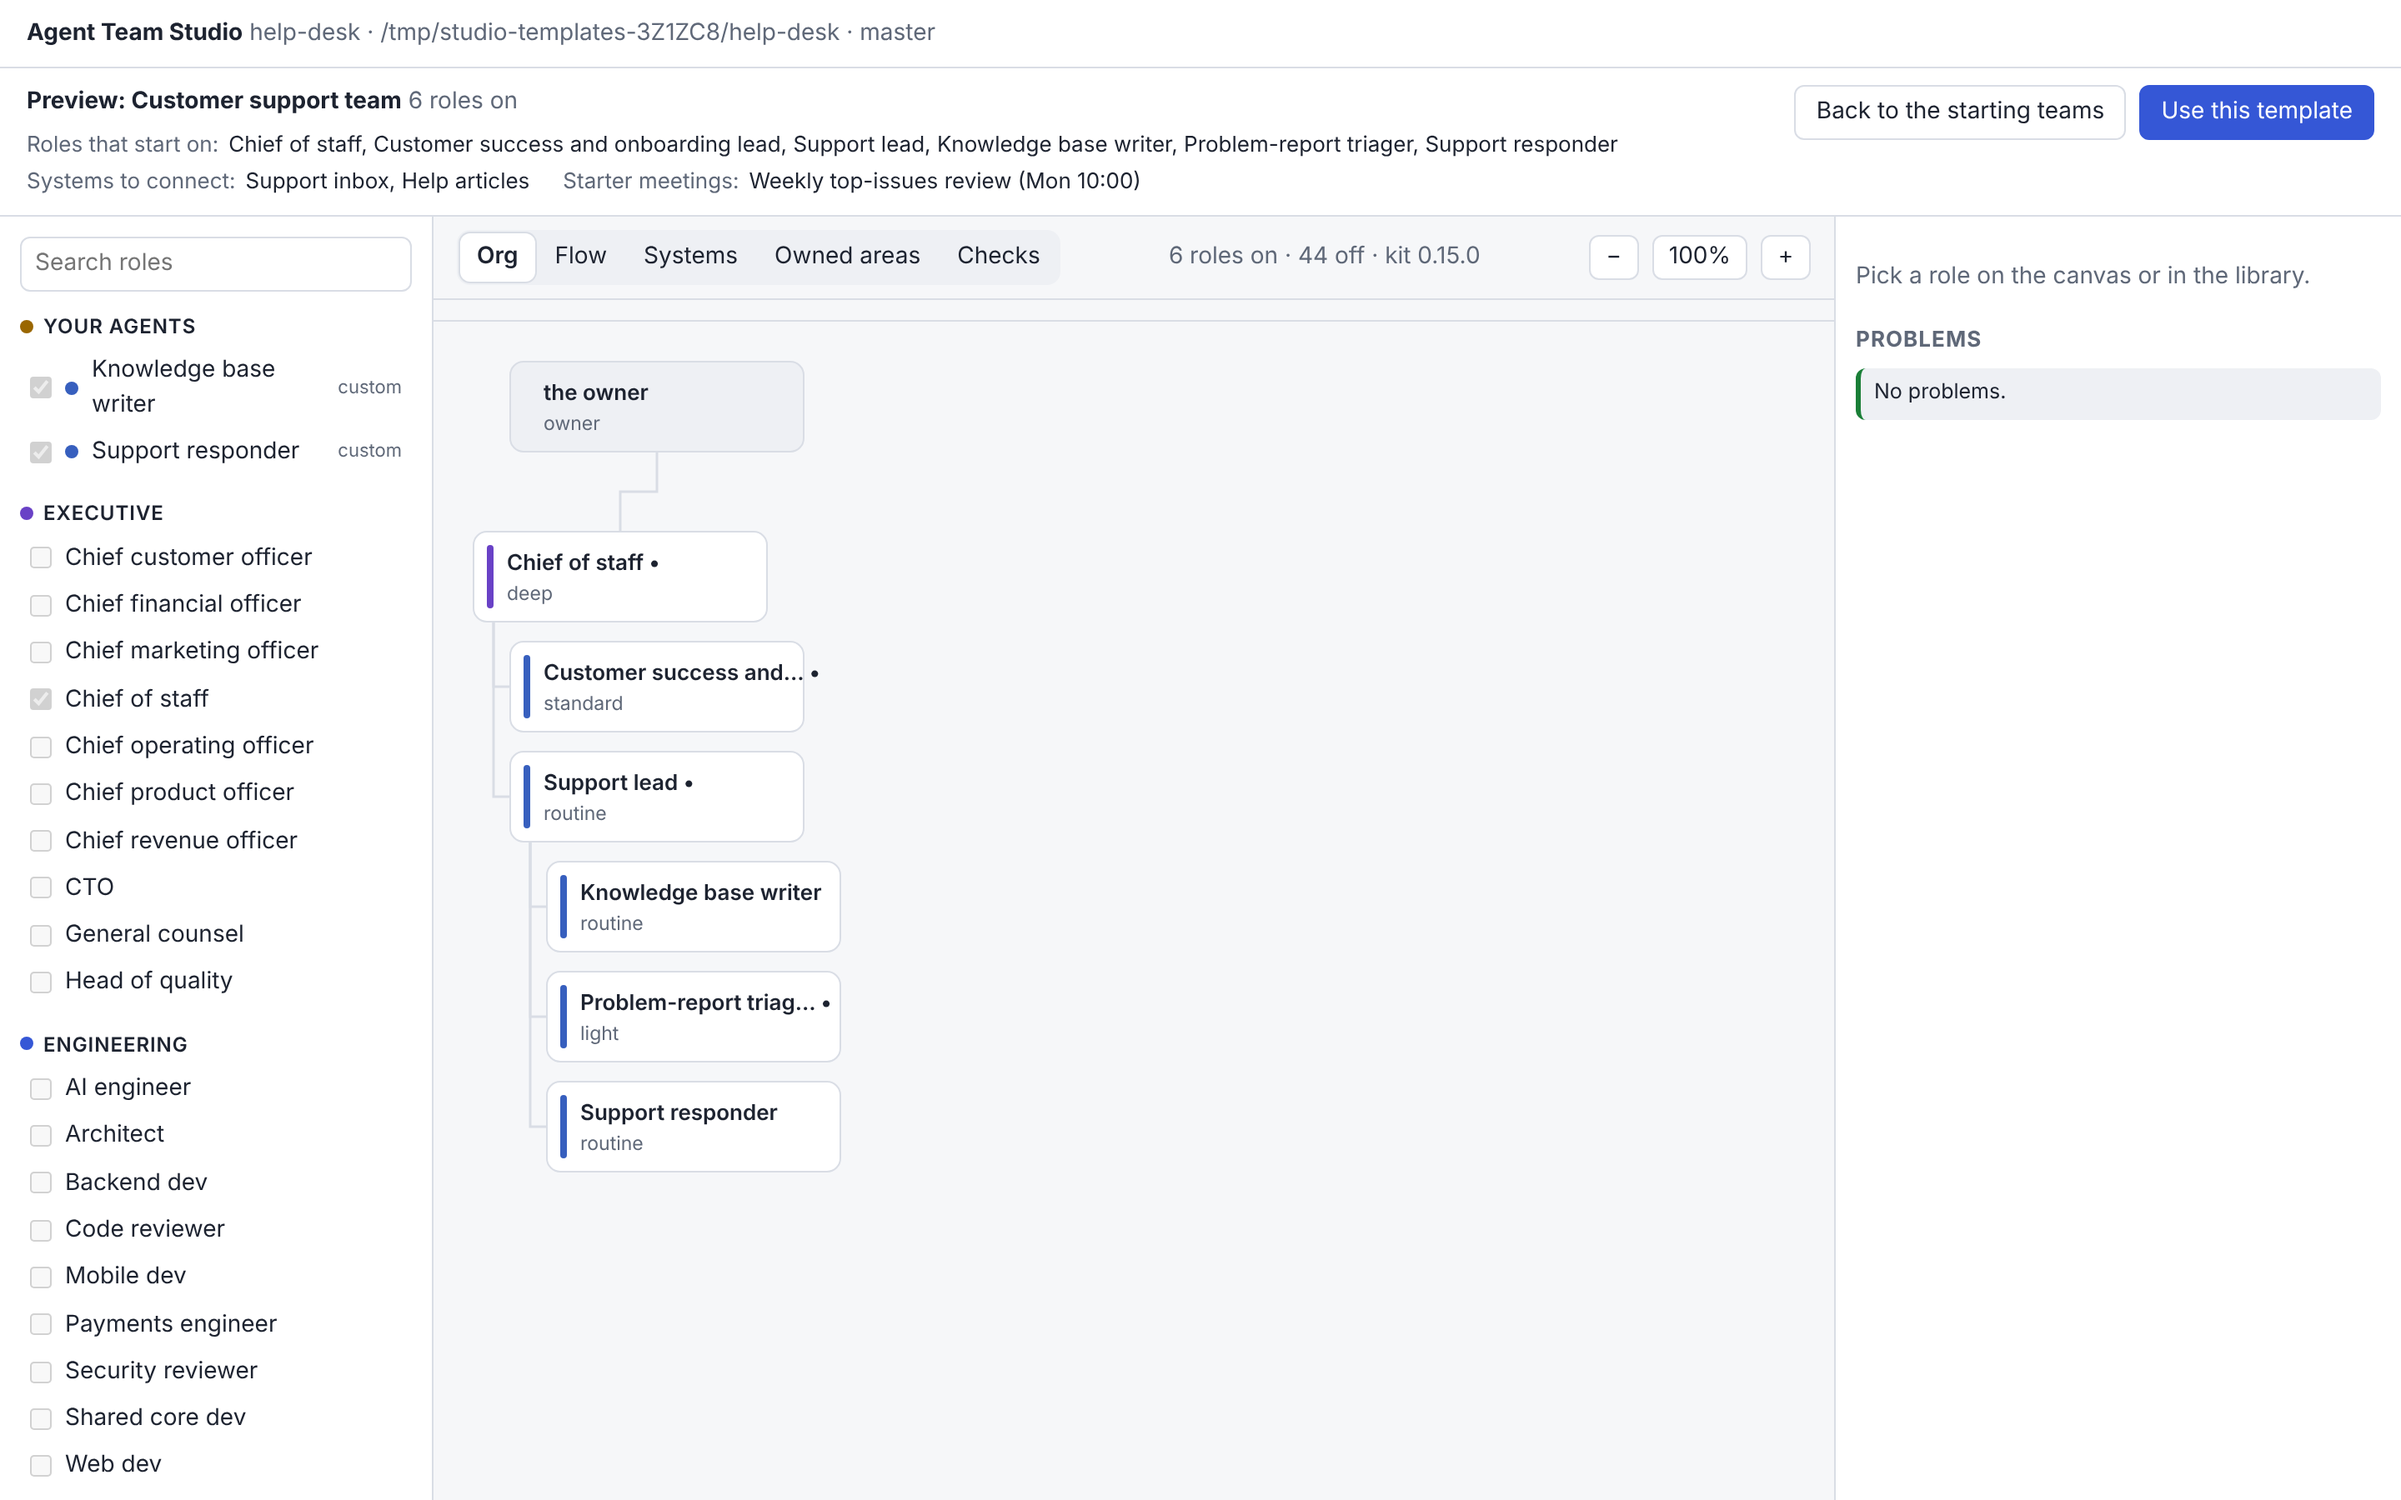
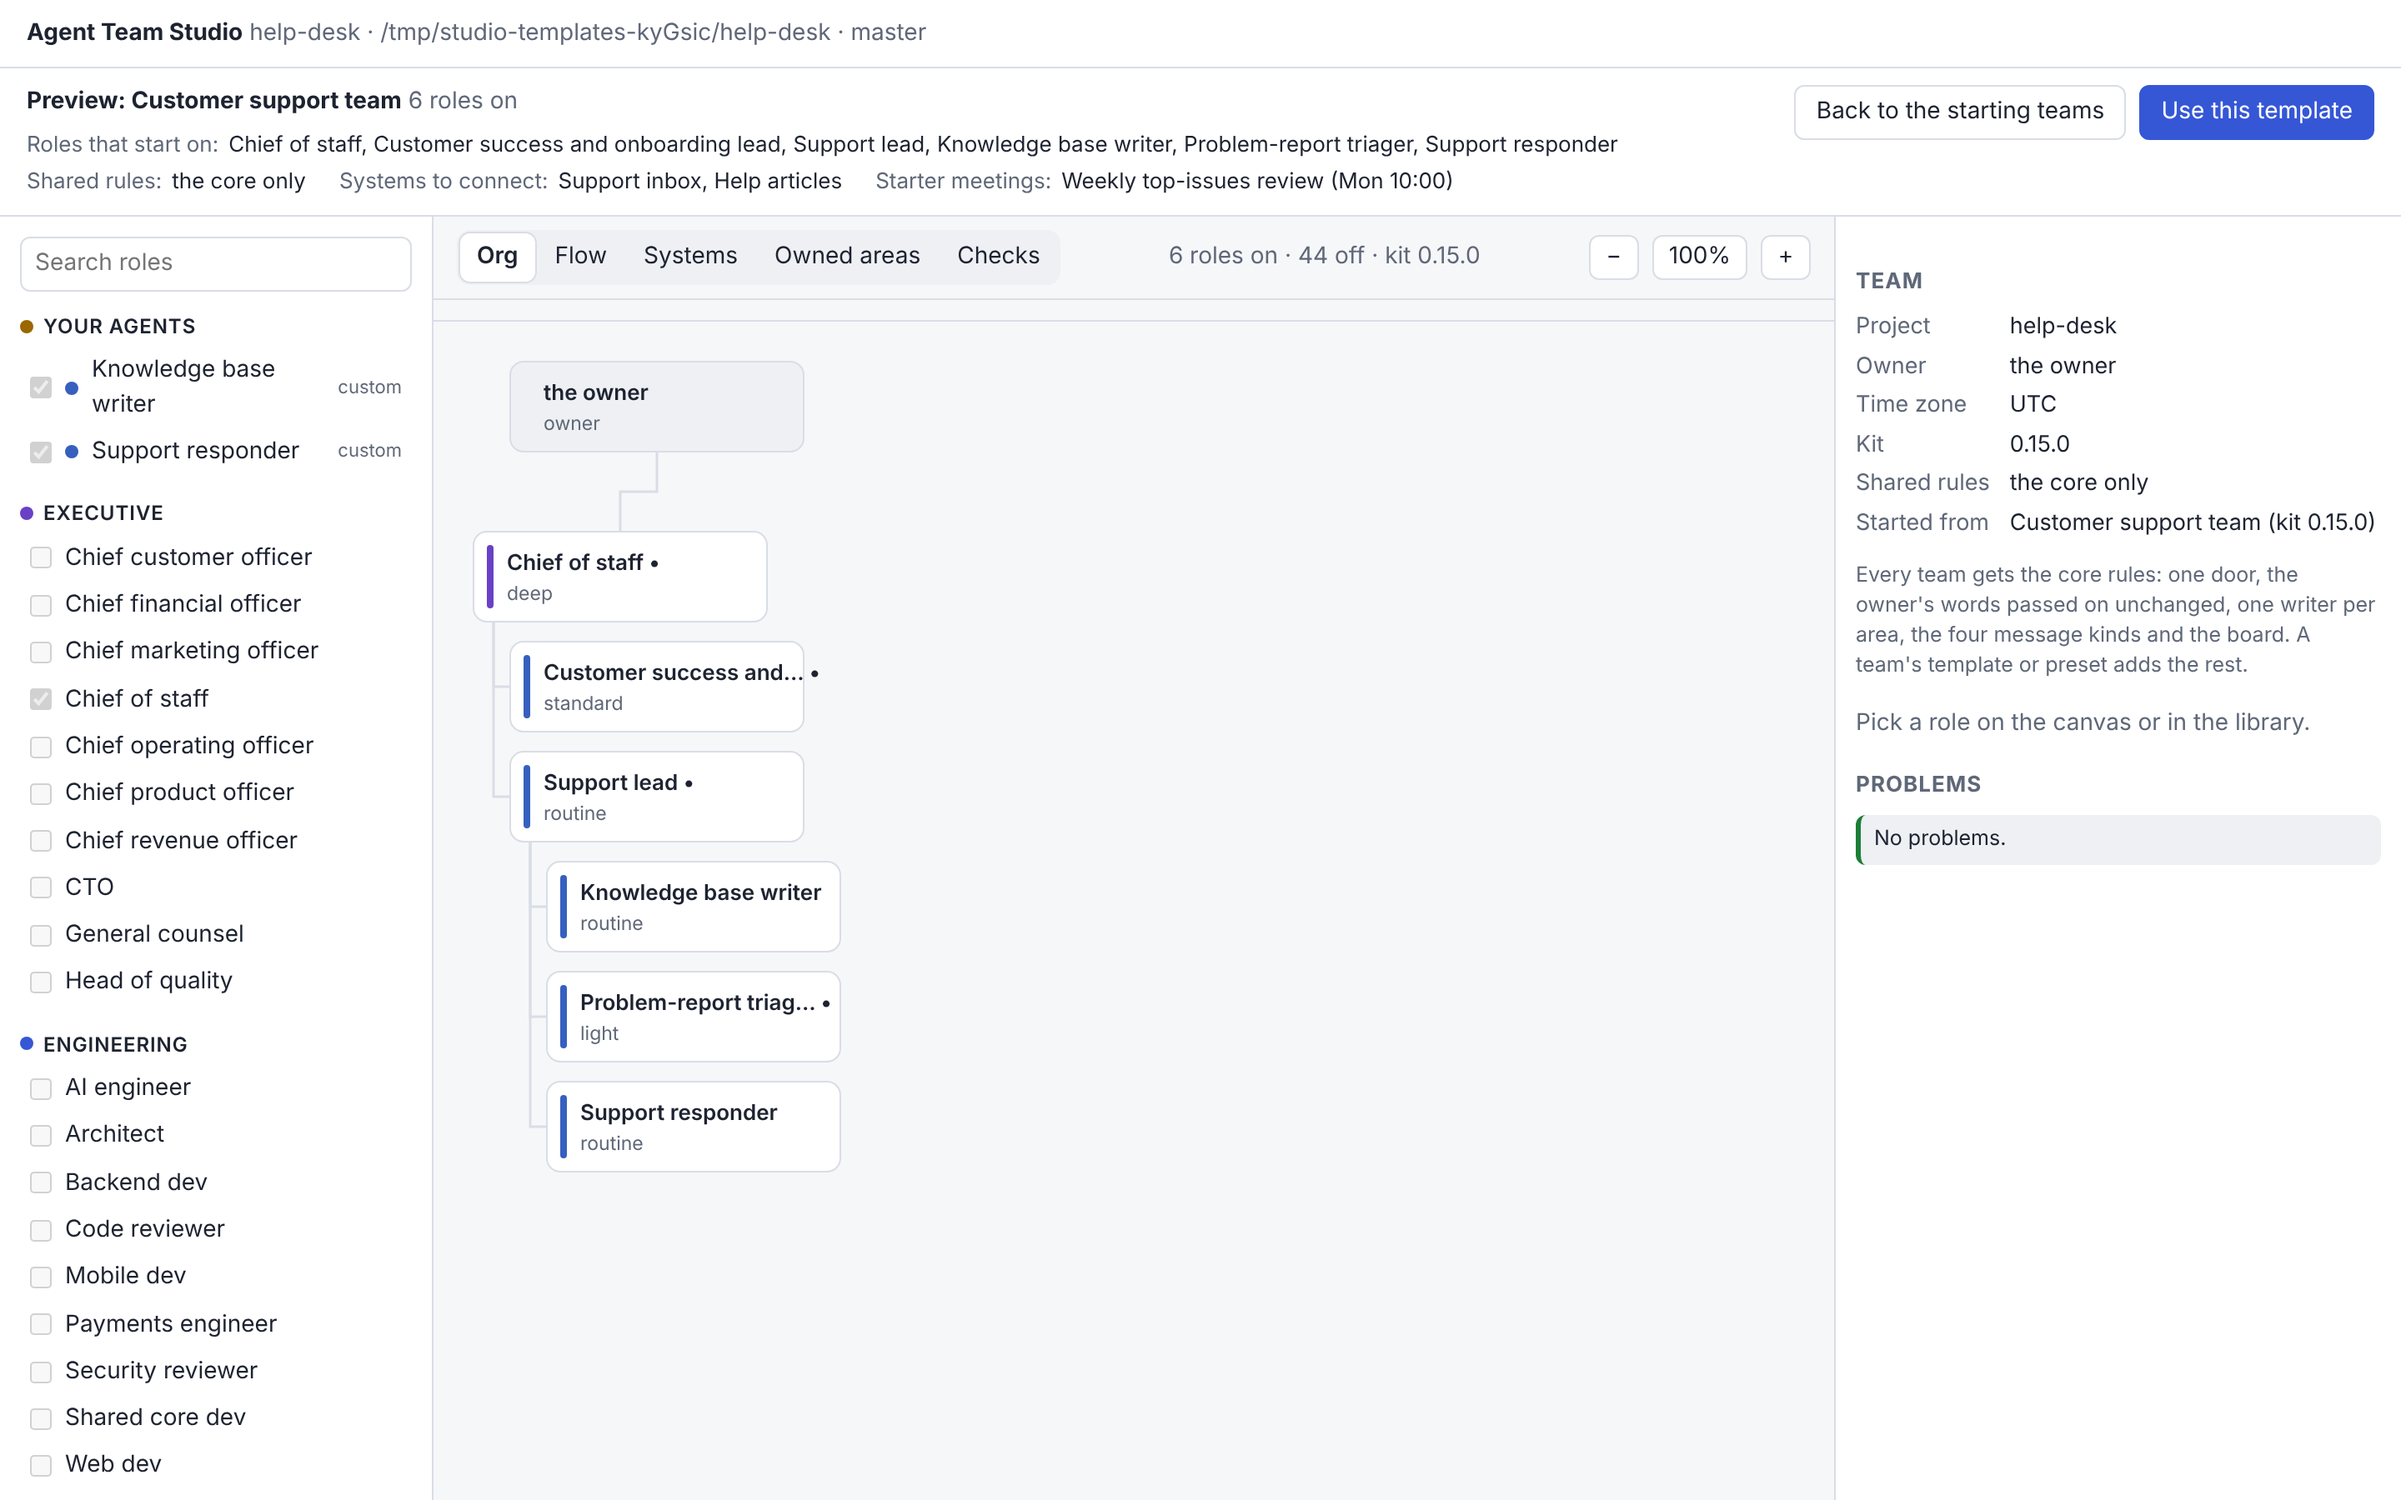
Studio: show a team's shared rules (#118)
* Studio: chat with the chief of staff (M3, issue #28)

A Chat page in the Studio: the owner's words verbatim with a client id,
replies as they arrive, decision and approval cards built from structured
data that answer with the card version (a stale card comes back refreshed),
today's cost against the cap, and pause, resume and stop for the run. The
Studio server proxies the control plane, so the token stays off the page.
Works at 360px; on small screens the team editor is read-only.

Tests: node tests for the proxy, and a Playwright test against a stand-in
control plane with a stubbed runner (new CI job), with screenshots at
desktop and 360px, light and dark.

Claude-Session: https://claude.ai/code/session_01CtT1rLNW9YJYwkYiXvhcVj

* Studio chat: follow the M3 design (ChatPage, card.updated, step-up)

Reads GET /chat as the architect fixed it in docs/product/m3-design.md
section 5: items, cards by id, run and cost in one page. Keeps the newest
card.updated per card, matches answers by card id, shows run and budget
events as timeline lines, and makes clientIds ULIDs. Approvals and stepUp
options ask for the admin token once; the Studio server trades it for a
step-up token via POST /auth/step-up and keeps that server-side for its
five minutes. The test control plane now answers in the same shape.

Claude-Session: https://claude.ai/code/session_01CtT1rLNW9YJYwkYiXvhcVj

* Studio: refuse requests not addressed to localhost; review fixes
[…]

diff --git a/apps/studio/public/app.js b/apps/studio/public/app.js
@@ -1,9 +1,9 @@
 // Agent Team Studio, the editor. Plain ES modules, no build step. The team is one TeamSpec (packages/team-model),
 // edited here and checked live with the kit's own rules; the server only reads, previews and publishes.
-import { checkUpgrade, resolveSpec, setEnabled, setField, splitBrief, validate } from './team-model.mjs';
+import { checkUpgrade, resolveSpec, setEnabled, setField, splitBrief, teamPacks, validate } from './team-model.mjs';
 import { createChat } from './chat.js';
 import { createMeetings } from './meetings.js';
-import { createGallery, rolesLine } from './gallery.js';
+import { createGallery, rolesLine, rulesLine } from './gallery.js';
 import { exportPack, imported, isCustom, openNewAgent, switchOnRefusal } from './agents.js';
 import { createAgentEditor } from './agent-editor.js';
 import { QUIET_S, assess, impactHtml, reapplyFollowUp, inFlightList, planText, popoverHtml, publishable, reasonOf, recommendations, revert, rowOf, staleNote, stateWord, taskOf } from './safety.js';
@@ -557,11 +557,26 @@ function nowOnLive(r) {
     <p class="hint">${esc(staleNote(sf.newest))}</p></section>`;
 }
 
+/** The team's settings, read-only, when no role is picked (neutral protocols story criterion 5: no new choice yet). */
+function teamHtml() {
+  const v = spec.values ?? {};
+  const from = spec.options?.from ? /^(.+)@(.*)$/.exec(spec.options.from) : null;
+  const tpl = from && (S.templates ?? []).find((c) => c.id === from[1]);
+  const rows = [
+    ['Project', v.PROJECT_NAME], ['Owner', v.OWNER], ['Time zone', v.TIMEZONE], ['Kit', S.kitVersion],
+    ['Shared rules', rulesLine(teamPacks(spec.options)).replace(/^Shared rules: /, '')],
+    ...(from ? [['Started from', `${tpl?.title ?? from[1]}${from[2] ? ` (kit ${from[2]})` : ''}`]] : []),
+  ].filter(([, x]) => x);
+  return `<h2>Team</h2><dl class="team-facts">${rows.map(([k, x]) => `<dt>${esc(k)}</dt><dd>${esc(x)}</dd>`).join('')}</dl>
+    <p class="hint">Every team gets the core rules: one door for the owner's requests, the owner's words passed on unchanged, one writer per area, the four message kinds and the board. A team's template or preset adds the rest.</p>
+    <p class="muted">Pick a role on the canvas or in the library.</p>`;
+}
+
 function renderInspector() {
   const el = $('#inspector');
   if (selectedSystem) return renderSystemInspector(el, ctx, selectedSystem);
   const r = selected && view.bySlug.get(selected);
-  if (!r) { el.innerHTML = '<p class="muted">Pick a role on the canvas or in the library.</p>'; return; }
+  if (!r) { el.innerHTML = teamHtml(); return; }
   const role = spec.roles[r.slug];
   const managers = view.team.filter((m) => m.slug !== r.slug && !under(r.slug, m.slug));
   const ownProject = role.brief !== undefined;
@@ -992,6 +1007,7 @@ function renderTemplateBar() {
       <dl>
         <div><dt>Roles that start on</dt><dd>${esc(byOrder(c.roles.filter((s) => !c.dormant.includes(s))).join(', '))}</dd></div>
         ${c.dormant.length ? `<div><dt>Dormant until you start them</dt><dd>${esc(byOrder(c.dormant).join(', '))}</dd></div>` : ''}
+        <div><dt>Shared rules</dt><dd>${esc(rulesLine(c.packs).replace(/^Shared rules: /, ''))}</dd></div>
         ${c.systems.length ? `<div><dt>Systems to connect</dt><dd>${esc(c.systems.map((s) => s.name).join(', '))}</dd></div>` : ''}
         ${meetingsLine ? `<div><dt>Starter meetings</dt><dd>${esc(meetingsLine)}</dd></div>` : ''}
       </dl></div>

diff --git a/apps/studio/public/gallery.js b/apps/studio/public/gallery.js
@@ -10,6 +10,15 @@ export function rolesLine(card) {
   return `${card.on} role${card.on === 1 ? '' : 's'} on${d ? ` · ${d} dormant` : ''}`;
 }
 
+/** What each pack of shared rules adds to the core, in plain words (neutral protocols story, criterion 5). */
+export const PACK_WORDS = { engineering: 'engineering (pull requests, the merge gate, deploys)' };
+
+/** "Shared rules: the core and engineering (…)", or "the core only" for a team with no packs. */
+export function rulesLine(packs) {
+  const list = (packs ?? []).map((p) => PACK_WORDS[p] ?? p);
+  return `Shared rules: ${list.length ? `the core and ${list.join(', ')}` : 'the core only'}`;
+}
+
 /** Whether a card matches the search box: its title, summary, group, suggested systems, starter meetings or roles. */
 export function matches(card, q) {
   const words = String(q ?? '').toLowerCase().split(/\s+/).filter(Boolean);
@@ -30,6 +39,7 @@ export function createGallery({ root, ctx }) {
       <strong>${esc(c.title)}</strong>
       <span class="g-summary">${esc(c.summary)}</span>
       <span class="muted">${esc(rolesLine(c))}</span>
+      <span class="muted">${esc(rulesLine(c.packs))}</span>
       ${systems.length ? `<span class="muted">Suggests ${esc(systems.join(', '))}</span>` : ''}
     </button></li>`;
   }

diff --git a/apps/studio/public/app.css b/apps/studio/public/app.css
@@ -526,3 +526,6 @@ body.previewing :is(#pages, .bar-actions, .edit-only, #new-agent), body.no-team 
   .tb-actions button { min-height: 44px; }
 }
 .chip.suggested { border-style: dashed; background: transparent; }
+.team-facts { display: grid; grid-template-columns: max-content 1fr; gap: 4px 12px; margin: 0 0 10px; font-size: 13.5px; }
+.team-facts dt { color: var(--muted); }
+.team-facts dd { margin: 0; }

diff --git a/CHANGELOG.md b/CHANGELOG.md
@@ -2,6 +2,7 @@
 
 ## Unreleased
 
+- **Studio: shared rules shown** (neutral protocols story, criterion 5). Each gallery card and the template preview say which shared rules the team gets ("the core only", or "the core and engineering (pull requests, the merge gate, deploys)"). With no role picked, the inspector shows the team's settings, read-only: project, owner, time zone, kit, shared rules and the template it started from. There is no new choice yet.
 - **Studio: template gallery** (issue #30, CPO story "team templates", criteria 5 to 10; D31 to D34). A repository with no team opens **Start a team**: the kit's templates grouped as "Build a product", "Run a business function" and "Maintain open source", with search, each card giving its purpose, how many roles start on and dormant, and the systems it suggests. Picking one shows it on the real canvas, read-only, with the roles that start on and dormant, the systems to connect and the starter meetings; nothing is written. **Use this template** asks for the project name, the owner's name and the time zone (the browser's by default), then opens the team as an unpublished draft. **Start almost empty** is a chief of staff only. Publishing writes exactly what `agent-team init --template` writes for the same answers, including the files init writes once. A template's suggested systems show dashed as "to connect" in the Systems view, with no settings, secrets or access until the owner connects one. A repository that has a team never shows the gallery. New Studio route: `POST /v1/team/from-template`; `GET /v1/team` answers `noTeam` with the template cards instead of an error.
 - **Studio: meetings and chat fixes** (QA notes on #107 and the M3 Pass A re-run). The attendee picker no longer offers roles already in a chosen lane. A duplicate meeting name from a hand-edited file shows in that meeting's own checks and on its row. The same-time warning comes once per pair of meetings and names every shared day, instead of once per day (`checkMeetings`). At 360px the chat header puts "Add a runner…" on its own line, so the run state is never cut off. Pause, resume and stop lines read "The run was paused · owner (reason)".
 - **Studio: meetings editor** (issue #30, CPO story "meeting definitions editor", criteria 1 to 10; mockup 03). A **Meetings** page next to Team and Chat lists the team's meetings and edits one at a time: title, schedule (days and time, or when an item gets a label), who runs it, attendees (roles or a whole lane, plus "everyone who worked since the last one"), format (written round, or discussion for 2 to 5 rounds), agenda, what happens to an attendee in the middle of a task, minutes to you, and a limit per meeting. "New meeting" offers four starters (stand-up, planning, release check, retro) with neutral agendas. The side column says what happens, in order, estimates the cost per meeting and per month from each role's model tier (`/model-prices.json`, prices as of their date) and warns when the limit is below it, and runs the kit's `checkMeetings`. Saving writes to the draft; Publish writes `.agent-team/meetings.json` with the rest of the team. When the team's time zone is not a real zone, the page offers the browser's. On a phone the page is a read-only list.
